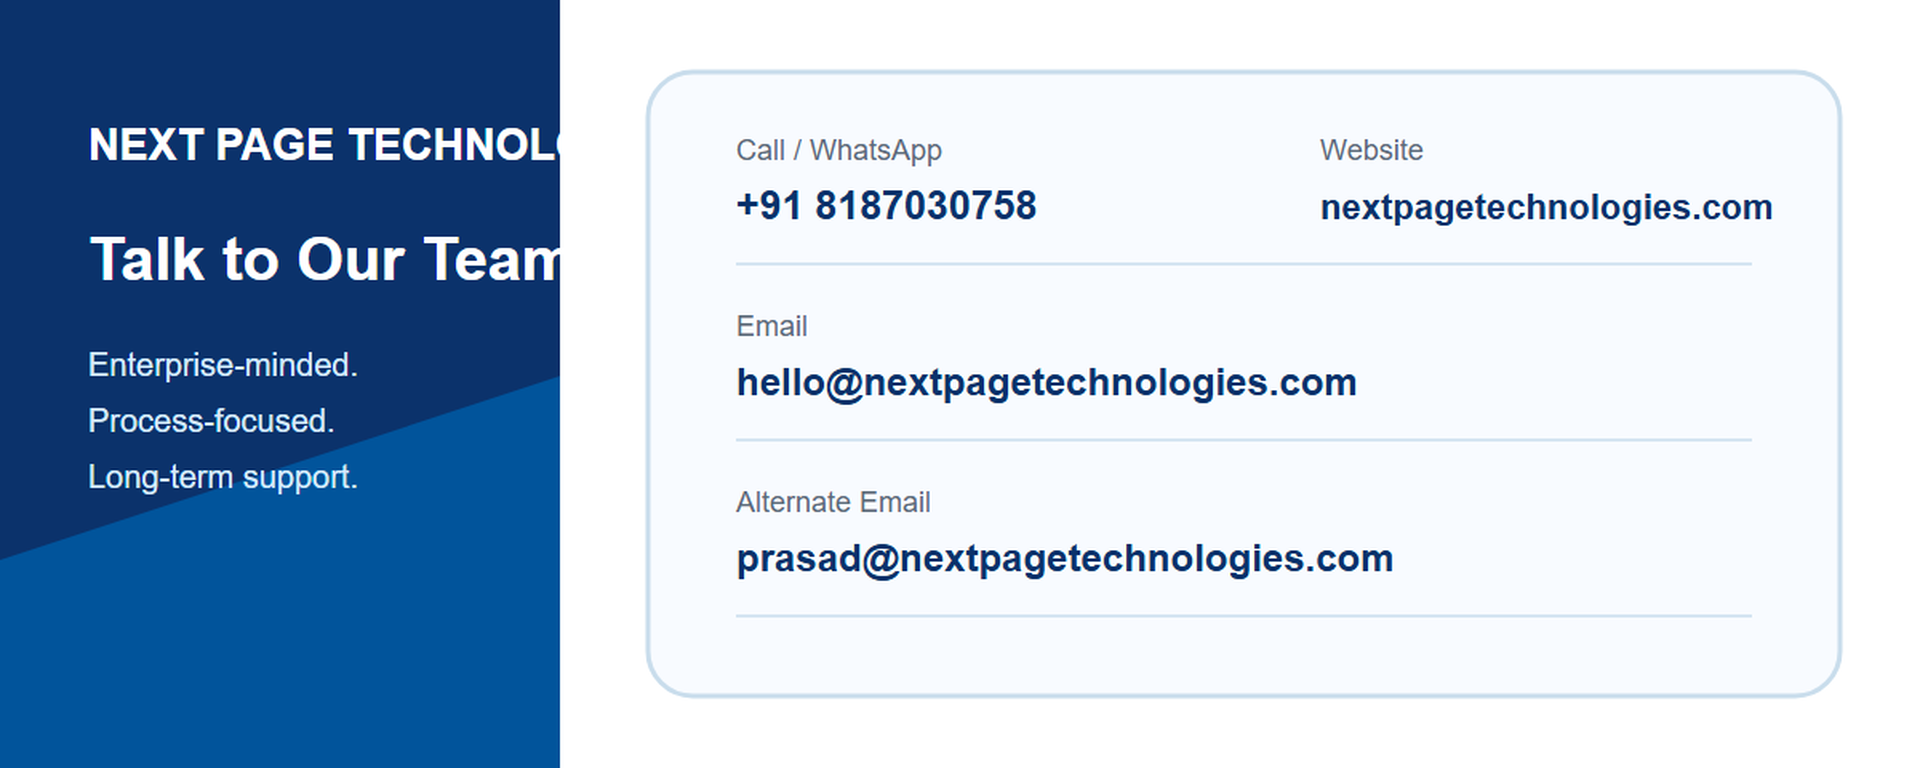
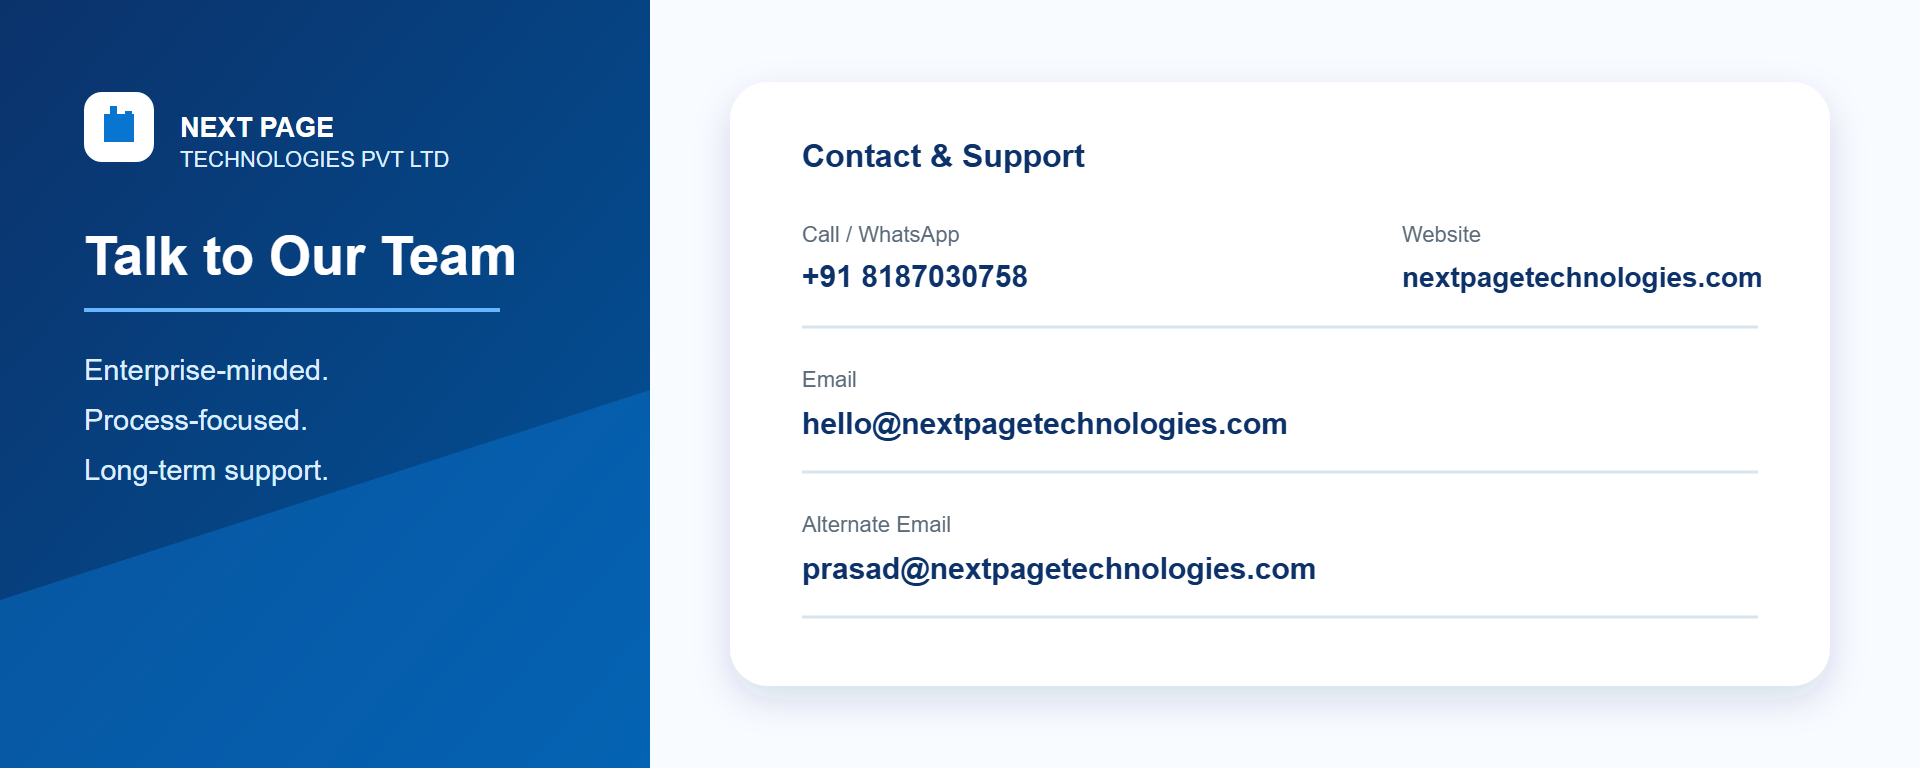
latest

diff --git a/npt_stock_no_negative/__manifest__.py b/npt_stock_no_negative/__manifest__.py
@@ -13,7 +13,7 @@ category, or stock location.
 This distribution is based on the OCA stock_no_negative module originally
 authored by Akretion and maintained in the Odoo Community Association ecosystem.
 """,
-    "author": "Next Page Technologies Pvt Ltd, Akretion, OCA",
+    "author": "Next Page Technologies Pvt Ltd",
     "maintainer": "Next Page Technologies Pvt Ltd",
     "website": "https://nextpagetechnologies.com",
     "support": "hello@nextpagetechnologies.com",
